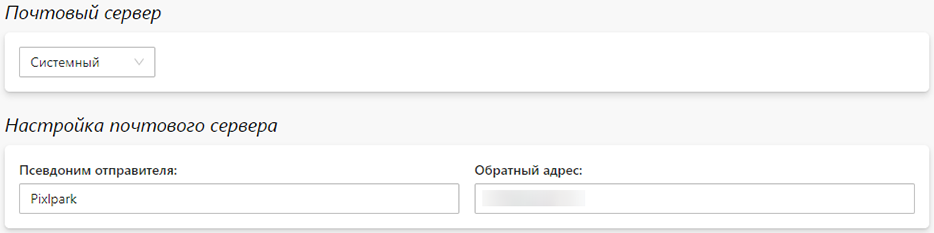
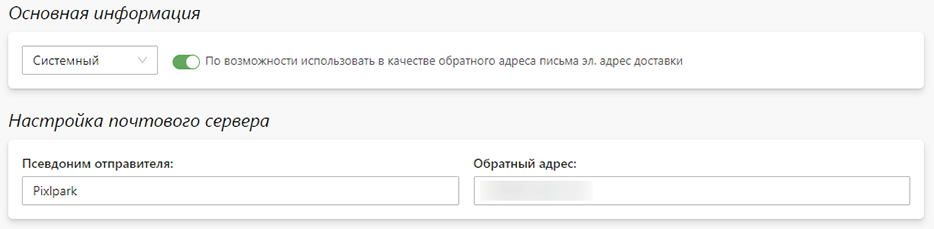
fix region and notifications

diff --git a/docs/site/region.md b/docs/site/region.md
@@ -18,6 +18,14 @@ sidebar_position: 1
     + __Свой формат__ - задание произвольного формата.
 * ![](../_media/site/region-general.png)
 
+## Контакты
+* __Название сайта__ - название сайта, которое выводится в панели управления, в шаблонах уведомлений и шаблонах документов (раздел "__Заказы / Настройка / Шаблоны документов__") через константу `[$websiteTitle$]`.
+* __Город__ - город, который выводится в шаблонах уведомлений и в шаблонах документов через константу `[$websiteCity$]`.
+* __Адрес__ - адрес, который выводится в шаблонах уведомлений и в шаблонах документов через константу `[$websiteAddress$]`. 
+* __Телефон__ - телефон, который выводится в шаблонах уведомлений и в шаблонах документов через константу `[$websitePhone$]`.
+* __Эл. почта__ - электронная почта, которая выводится в шаблонах уведомлений и в шаблонах документов через константу `[$websiteEmail$]`.
+* ![](../_media/site/region-contacts.png)
+
 ## Валюта
 * __Код валюты__ - код валюты, передаваемый в платежную систему по умолчанию.
 * __Шаблон вывода валюты__ - задание формата вывода строки стоимости:

diff --git a/docs/marketing/notifications.md b/docs/marketing/notifications.md
@@ -30,11 +30,7 @@ sidebar_position: 6
 * ![](../_media/marketing/notifications05.png)
 
 ## Настройка почты
-* __Название сайта__ - название сайта, которое выводится в панели управления, в шаблонах уведомлений и шаблонах документов (раздел "__Заказы / Настройка / Шаблоны документов__") через константу `[$websiteTitle$]`.
-* __Телефон__ - телефон, который выводится в шаблонах уведомлений и в шаблонах документов через константу `[$websitePhone$]`.
-* __Эл. почта__ - электронная почта, которая выводится в шаблонах уведомлений и в шаблонах документов через константу `[$websiteEmail$]`.
 * __По возможности использовать в качестве обратного адреса письма эл. адрес доставки__ - подставлять в качестве обратного адреса эл. почту пункта выдачи заказа, выбранного клиентом.
-* ![](../_media/marketing/notifications06.png)
 * __Почтовый сервер__ - сервер для отправки уведомлений по эл. почте:
     + __Системный__ - почтовый сервер сервиса Pixlpark;
     + __SendSay__ - почтовый сервер сервиса [SendSay](https://sendsay.ru/);
